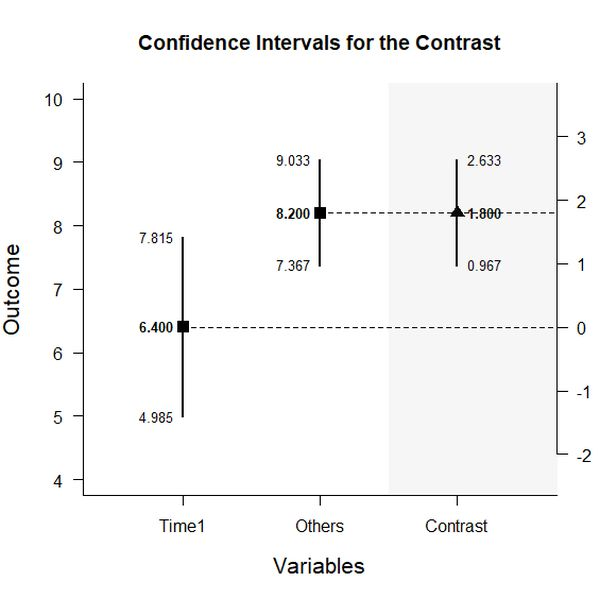
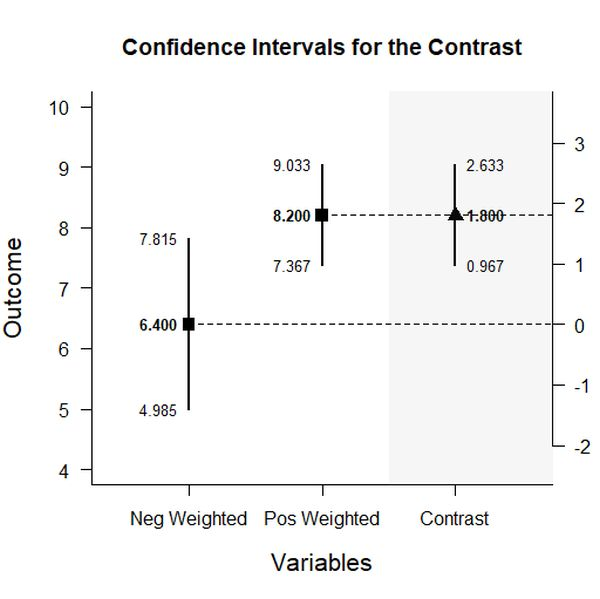
Updated examples

diff --git a/B-BasicExamples/WithinSubjects/WITHIN-SUBJECTS-SUMMARY-EXAMPLE.md b/B-BasicExamples/WithinSubjects/WITHIN-SUBJECTS-SUMMARY-EXAMPLE.md
@@ -218,8 +218,8 @@ This section produces analyses that are equivalent to analyses involving multipl
 
 This code creates combinations of variables and produces a confidence interval for those pooled variables.
 ```r
-weights.T1 <- c(1,0,0)
-estimateContrast(sumstats,corrstats,contrast=weights.T1)
+T1 <- c(1,0,0)
+estimateContrast(sumstats,corrstats,contrast=T1)
 ```
 ```
 CONFIDENCE INTERVAL FOR THE CONTRAST
@@ -228,8 +228,8 @@ CONFIDENCE INTERVAL FOR THE CONTRAST
 Contrast 6.400 0.510 4.000 4.985 7.815
 ```
 ```r
-weights.T2nT3 <- c(0,.5,.5)
-estimateContrast(sumstats,corrstats,contrast=weights.T2nT3)
+T2nT3 <- c(0,.5,.5)
+estimateContrast(sumstats,corrstats,contrast=T2nT3)
 ```
 ```
 CONFIDENCE INTERVAL FOR THE CONTRAST
@@ -242,8 +242,8 @@ Contrast 8.200 0.300 4.000 7.367 9.033
 
 This code identifies a contrast among the levels and produces a confidence interval for that contrast.
 ```r
-weights.T1vsOthers <- c(-1,.5,.5)
-estimateContrast(sumstats,corrstats,contrast=weights.T1vsOthers)
+T1vsOthers <- c(-1,.5,.5)
+estimateContrast(sumstats,corrstats,contrast=T1vsOthers)
 ```
 ```
 CONFIDENCE INTERVAL FOR THE CONTRAST
@@ -254,30 +254,29 @@ Contrast 1.800 0.300 4.000 0.968 2.632
 
 As in all other cases, the default value of the confidence interval can be changed.
 ```r
-estimateContrast(sumstats,corrstats,contrast=weights.T1vsOthers,conf.level=.99)
+estimateContrast(sumstats,corrstats,contrast=T1vsOthers,conf.level=.99)
 ```
 
 #### Plots of Confidence Intervals for a Contrast
 
 This code obtains and plots the confidence intervals for the groups and the mean difference in the identified contrast.
 ```r
-weights.T1vsOthers <- c(-1,.5,.5)
-descp.T1vsOthers <- c("Time1","Others","Contrast")
-plotContrast(sumstats,corrstats,contrast=weights.T1vsOthers,labels=descp.T1vsOthers)
+T1vsOthers <- c(-1,.5,.5)
+plotContrast(sumstats,corrstats,contrast=T1vsOthers)
 > 
 ````
 <kbd><img src="WithinSubjectsFigure4.jpg"></kbd>
 
 The width of the confidence interval for the contrast can be altered if desired.
 ```r
-plotContrast(sumstats,corrstats,contrast=weights.T1vsOthers,labels=descp.T1vsOthers,conf.level=.99)
+plotContrast(sumstats,corrstats,contrast=T1vsOthers,conf.level=.99)
 ```
 
 #### Significance Test for the Contrast
 
 This code produces a NHST for the identified contrast. It tests the contrast against a value of zero by default.
 ```r
-testContrast(sumstats,corrstats,contrast=weights.T1vsOthers)
+testContrast(sumstats,corrstats,contrast=T1vsOthers)
 ```
 ```
 HYPOTHESIS TEST FOR THE CONTRAST
@@ -288,14 +287,14 @@ Contrast 1.800 0.300 6.004 4.000 0.004
 
 If desired, the contrast can be tested against other values if needed.
 ```r
-testContrast(sumstats,corrstats,contrast=weights.T1vsOthers,mu=-1)
+testContrast(sumstats,corrstats,contrast=T1vsOthers,mu=-1)
 ```
 
 #### Effect Size for a Contrast
 
 This code calculates a standardized contrast and its confidence interval.
 ```r
-standardizeContrast(sumstats,corrstats,contrast=weights.T1vsOthers)
+standardizeContrast(sumstats,corrstats,contrast=T1vsOthers)
 ```
 ```
 CONFIDENCE INTERVAL FOR THE STANDARDIZED CONTRAST
@@ -306,5 +305,5 @@ Contrast 2.056 0.685 0.714 3.397
 
 The width of the confidence interval for the effect size can be altered if desired.
 ```r
-standardizeContrast(sumstats,corrstats,contrast=weights.T1vsOthers,conf.level=.99)
+standardizeContrast(sumstats,corrstats,contrast=T1vsOthers,conf.level=.99)
 ```

diff --git a/B-BasicExamples/WithinSubjects/WITHIN-SUBJECTS-DATA-EXAMPLE.md b/B-BasicExamples/WithinSubjects/WITHIN-SUBJECTS-DATA-EXAMPLE.md
@@ -199,8 +199,8 @@ This section produces analyses that are equivalent to analyses involving multipl
 
 This code creates combinations of variables and produces a confidence interval for those pooled variables.
 ```r
-weights.T1 <- c(1,0,0)
-estimateContrast(Time1,Time2,Time3,contrast=weights.T1)
+T1 <- c(1,0,0)
+estimateContrast(Time1,Time2,Time3,contrast=T1)
 ```
 ```
 CONFIDENCE INTERVAL FOR THE CONTRAST
@@ -209,8 +209,8 @@ CONFIDENCE INTERVAL FOR THE CONTRAST
 Contrast 6.400 0.510 4.000 4.985 7.815
 ```
 ```r
-weights.T2nT3 <- c(0,.5,.5)
-estimateContrast(Time1,Time2,Time3,contrast=weights.T2nT3)
+T2nT3 <- c(0,.5,.5)
+estimateContrast(Time1,Time2,Time3,contrast=T2nT3)
 ```
 ```
 CONFIDENCE INTERVAL FOR THE CONTRAST
@@ -223,8 +223,8 @@ Contrast 8.200 0.300 4.000 7.367 9.033
 
 This code identifies a contrast among the levels and produces a confidence interval for that contrast.
 ```r
-weights.T1vsOthers <- c(-1,.5,.5)
-estimateContrast(Time1,Time2,Time3,contrast=weights.T1vsOthers)
+T1vsOthers <- c(-1,.5,.5)
+estimateContrast(Time1,Time2,Time3,contrast=T1vsOthers)
 ```
 ```
 CONFIDENCE INTERVAL FOR THE CONTRAST
@@ -235,29 +235,28 @@ Contrast 1.800 0.300 4.000 0.967 2.633
 
 As in all other cases, the default value of the confidence interval can be changed.
 ```r
-estimateContrast(Time1,Time2,Time3,contrast=weights.T1vsOthers,conf.level=.99)
+estimateContrast(Time1,Time2,Time3,contrast=T1vsOthers,conf.level=.99)
 ```
 
 #### Plots of Confidence Intervals for a Contrast
 
 This code obtains and plots the confidence intervals for the groups and the mean difference in the identified contrast.
 ```r
-weights.T1vsOthers <- c(-1,.5,.5)
-descp.T1vsOthers <- c("Time1","Others","Contrast")
-plotContrast(Time1,Time2,Time3,contrast=weights.T1vsOthers,labels=descp.T1vsOthers)
+T1vsOthers <- c(-1,.5,.5)
+plotContrast(Time1,Time2,Time3,contrast=T1vsOthers)
 ````
 <kbd><img src="WithinSubjectsFigure4.jpg"></kbd>
 
 The width of the confidence interval for the contrast can be altered if desired.
 ```r
-plotContrast(Time1,Time2,Time3,contrast=weights.T1vsOthers,labels=descp.T1vsOthers,conf.level=.99)
+plotContrast(Time1,Time2,Time3,contrast=T1vsOthers,conf.level=.99)
 ```
 
 #### Significance Test for the Contrast
 
 This code produces a NHST for the identified contrast. It tests the contrast against a value of zero by default.
 ```r
-testContrast(Time1,Time2,Time3,contrast=weights.T1vsOthers)
+testContrast(Time1,Time2,Time3,contrast=T1vsOthers)
 ```
 ```
 HYPOTHESIS TEST FOR THE CONTRAST
@@ -268,14 +267,14 @@ Contrast 1.800 0.300 6.002 4.000 0.004
 
 If desired, the contrast can be tested against other values if needed.
 ```r
-testContrast(Time1,Time2,Time3,contrast=weights.T1vsOthers,mu=-1)
+testContrast(Time1,Time2,Time3,contrast=T1vsOthers,mu=-1)
 ```
 
 #### Effect Size for a Contrast
 
 This code calculates a standardized contrast and its confidence interval.
 ```r
-standardizeContrast(Time1,Time2,Time3,contrast=weights.T1vsOthers)
+standardizeContrast(Time1,Time2,Time3,contrast=T1vsOthers)
 ```
 ```
 CONFIDENCE INTERVAL FOR THE STANDARDIZED CONTRAST
@@ -286,5 +285,5 @@ Contrast 2.056 0.685 0.714 3.397
 
 The width of the confidence interval for the effect size can be altered if desired.
 ```r
-standardizeContrast(Time1,Time2,Time3,contrast=weights.T1vsOthers,conf.level=.99)
+standardizeContrast(Time1,Time2,Time3,contrast=T1vsOthers,conf.level=.99)
 ```

diff --git a/B-BasicExamples/BetweenSubjects/BETWEEN-SUBJECTS-DATA-EXAMPLE.md b/B-BasicExamples/BetweenSubjects/BETWEEN-SUBJECTS-DATA-EXAMPLE.md
@@ -206,8 +206,8 @@ This section produces analyses that are equivalent to analyses involving multipl
 
 This code creates combinations of groups and produces a confidence interval for those pooled groups.
 ```r
-weights.G1 <- c(1,0,0)
-estimateContrast(Outcome~Group,contrast=weights.G1)
+G1 <- c(1,0,0)
+estimateContrast(Outcome~Group,contrast=G1)
 ```
 ```
 CONFIDENCE INTERVAL FOR THE CONTRAST
@@ -216,8 +216,8 @@ CONFIDENCE INTERVAL FOR THE CONTRAST
 Contrast 4.000 0.577 2.000 1.516 6.484
 ```
 ```r
-weights.G2nG3 <- c(0,.5,.5)
-estimateContrast(Outcome~Group,contrast=weights.G2nG3)
+G2nG3 <- c(0,.5,.5)
+estimateContrast(Outcome~Group,contrast=G2nG3)
 ```
 ```
 CONFIDENCE INTERVAL FOR THE CONTRAST
@@ -230,8 +230,8 @@ Contrast 8.500 0.408 4.000 7.367 9.633
 
 This code identifies a contrast among the groups and produces a confidence interval for that contrast.
 ```r
-weights.G1vsOthers <- c(-1,.5,.5)
-estimateContrast(Outcome~Group,contrast=weights.G1vsOthers)
+G1vsOthers <- c(-1,.5,.5)
+estimateContrast(Outcome~Group,contrast=G1vsOthers)
 ```
 ```
 CONFIDENCE INTERVAL FOR THE CONTRAST
@@ -242,29 +242,28 @@ Contrast 4.500 0.707 4.000 2.537 6.463
 
 As in all other cases, the default value of the confidence interval can be changed.
 ```r
-estimateContrast(Outcome~Group,contrast=weights.G1vsOthers,conf.level=.99)
+estimateContrast(Outcome~Group,contrast=G1vsOthers,conf.level=.99)
 ```
 
 #### Plots of Confidence Intervals for a Contrast
 
 This code obtains and plots the confidence intervals for the groups and the mean difference in the identified contrast.
 ```r
-weights.G1vsOthers <- c(-1,.5,.5)
-descp.G1vsOthers <- c("Group1","Others","Contrast")
-plotContrast(Outcome~Group,contrast=weights.G1vsOthers,labels=descp.G1vsOthers)
+G1vsOthers <- c(-1,.5,.5)
+plotContrast(Outcome~Group,contrast=G1vsOthers)
 ````
 <kbd><img src="BetweenSubjectsFigure4.jpg"></kbd>
 
 The width of the confidence interval for the contrast can be altered if desired.
 ```r
-plotContrast(Outcome~Group,contrast=weights.G1vsOthers,labels=descp.G1vsOthers,conf.level=.99)
+plotContrast(Outcome~Group,contrast=G1vsOthers,conf.level=.99)
 ```
 
 #### Significance Test for a Contrast
 
 This code produces a NHST for the identified contrast. It tests the contrast against a value of zero by default.
 ```r
-testContrast(Outcome~Group,contrast=weights.G1vsOthers)
+testContrast(Outcome~Group,contrast=G1vsOthers)
 ```
 ```
 HYPOTHESIS TEST FOR THE CONTRAST
@@ -275,14 +274,14 @@ Contrast 4.500 0.707 6.364 4.000 0.003
 
 If desired, the contrast can be tested against other values if needed.
 ```r
-testContrast(Outcome~Group,contrast=weights.G1vsOthers,mu=4)
+testContrast(Outcome~Group,contrast=G1vsOthers,mu=4)
 ```
 
 #### Effect Size for a Contrast
 
 This code calculates a standardized contrast and its confidence interval.
 ```r
-standardizeContrast(Outcome~Group,contrast=weights.G1vsOthers)
+standardizeContrast(Outcome~Group,contrast=G1vsOthers)
 ```
 ```
 CONFIDENCE INTERVAL FOR THE STANDARDIZED CONTRAST
@@ -293,5 +292,5 @@ Contrast 4.500 1.561 1.440 7.560
 
 The width of the confidence interval for the effect size can be altered if desired.
 ```r
-standardizeContrast(Outcome~Group,contrast=weights.G1vsOthers,conf.level=.99)
+standardizeContrast(Outcome~Group,contrast=G1vsOthers,conf.level=.99)
 ```

diff --git a/B-BasicExamples/BetweenSubjects/BETWEEN-SUBJECTS-SUMMARY-EXAMPLE.md b/B-BasicExamples/BetweenSubjects/BETWEEN-SUBJECTS-SUMMARY-EXAMPLE.md
@@ -204,8 +204,8 @@ This section produces analyses that are equivalent to analyses involving multipl
 
 This code creates combinations of groups and produces a confidence interval for those pooled groups.
 ```r
-weights.G1 <- c(1,0,0)
-estimateContrast(sumstats,contrast=weights.G1)
+G1 <- c(1,0,0)
+estimateContrast(sumstats,contrast=G1)
 ```
 ```
 CONFIDENCE INTERVAL FOR THE CONTRAST
@@ -214,8 +214,8 @@ CONFIDENCE INTERVAL FOR THE CONTRAST
 Contrast 4.000 0.577 2.000 1.516 6.484
 ```
 ```r
-weights.G2nG3 <- c(0,.5,.5)
-estimateContrast(sumstats,contrast=weights.G2nG3)
+G2nG3 <- c(0,.5,.5)
+estimateContrast(sumstats,contrast=G2nG3)
 ```
 ```
 CONFIDENCE INTERVAL FOR THE CONTRAST
@@ -228,8 +228,8 @@ Contrast 8.500 0.408 4.000 7.367 9.633
 
 This code identifies a contrast among the groups and produces a confidence interval for that contrast.
 ```r
-weights.G1vsOthers <- c(-1,.5,.5)
-estimateContrast(sumstats,contrast=weights.G1vsOthers)
+G1vsOthers <- c(-1,.5,.5)
+estimateContrast(sumstats,contrast=G1vsOthers)
 ```
 ```
 CONFIDENCE INTERVAL FOR THE CONTRAST
@@ -240,29 +240,28 @@ Contrast 4.500 0.707 4.000 2.537 6.463
 
 As in all other cases, the default value of the confidence interval can be changed.
 ```r
-estimateContrast(sumstats,contrast=weights.G1vsOthers,conf.level=.99)
+estimateContrast(sumstats,contrast=G1vsOthers,conf.level=.99)
 ```
 
 #### Plots of Confidence Intervals for a Contrast
 
 This code obtains and plots the confidence intervals for the groups and the mean difference in the identified contrast.
 ```r
-weights.G1vsOthers <- c(-1,.5,.5)
-descp.G1vsOthers <- c("Group1","Others","Contrast")
-plotContrast(sumstats,contrast=weights.G1vsOthers,labels=descp.G1vsOthers)
+G1vsOthers <- c(-1,.5,.5)
+plotContrast(sumstats,contrast=G1vsOthers)
 ````
 <kbd><img src="BetweenSubjectsFigure4.jpg"></kbd>
 
 The width of the confidence interval for the contrast can be altered if desired.
 ```r
-plotContrast(sumstats,contrast=weights.G1vsOthers,labels=descp.G1vsOthers,conf.level=.99)
+plotContrast(sumstats,contrast=G1vsOthers,conf.level=.99)
 ```
 
 #### Significance Test for a Contrast
 
 This code produces a NHST for the identified contrast. It tests the contrast against a value of zero by default.
 ```r
-testContrast(sumstats,contrast=weights.G1vsOthers)
+testContrast(sumstats,contrast=G1vsOthers)
 ```
 ```
 HYPOTHESIS TEST FOR THE CONTRAST
@@ -273,14 +272,14 @@ Contrast 4.500 0.707 6.364 4.000 0.003
 
 If desired, the contrast can be tested against other values if needed.
 ```r
-testContrast(sumstats,contrast=weights.G1vsOthers,mu=4)
+testContrast(sumstats,contrast=G1vsOthers,mu=4)
 ```
 
 #### Effect Size for a Contrast
 
 This code calculates a standardized contrast and its confidence interval.
 ```r
-standardizeContrast(sumstats,contrast=weights.G1vsOthers)
+standardizeContrast(sumstats,contrast=G1vsOthers)
 ```
 ```
 CONFIDENCE INTERVAL FOR THE STANDARDIZED CONTRAST
@@ -291,5 +290,5 @@ Contrast 4.500 1.561 1.440 7.560
 
 The width of the confidence interval for the effect size can be altered if desired.
 ```r
-standardizeContrast(sumstats,contrast=weights.G1vsOthers,conf.level=.99)
+standardizeContrast(sumstats,contrast=G1vsOthers,conf.level=.99)
 ```
